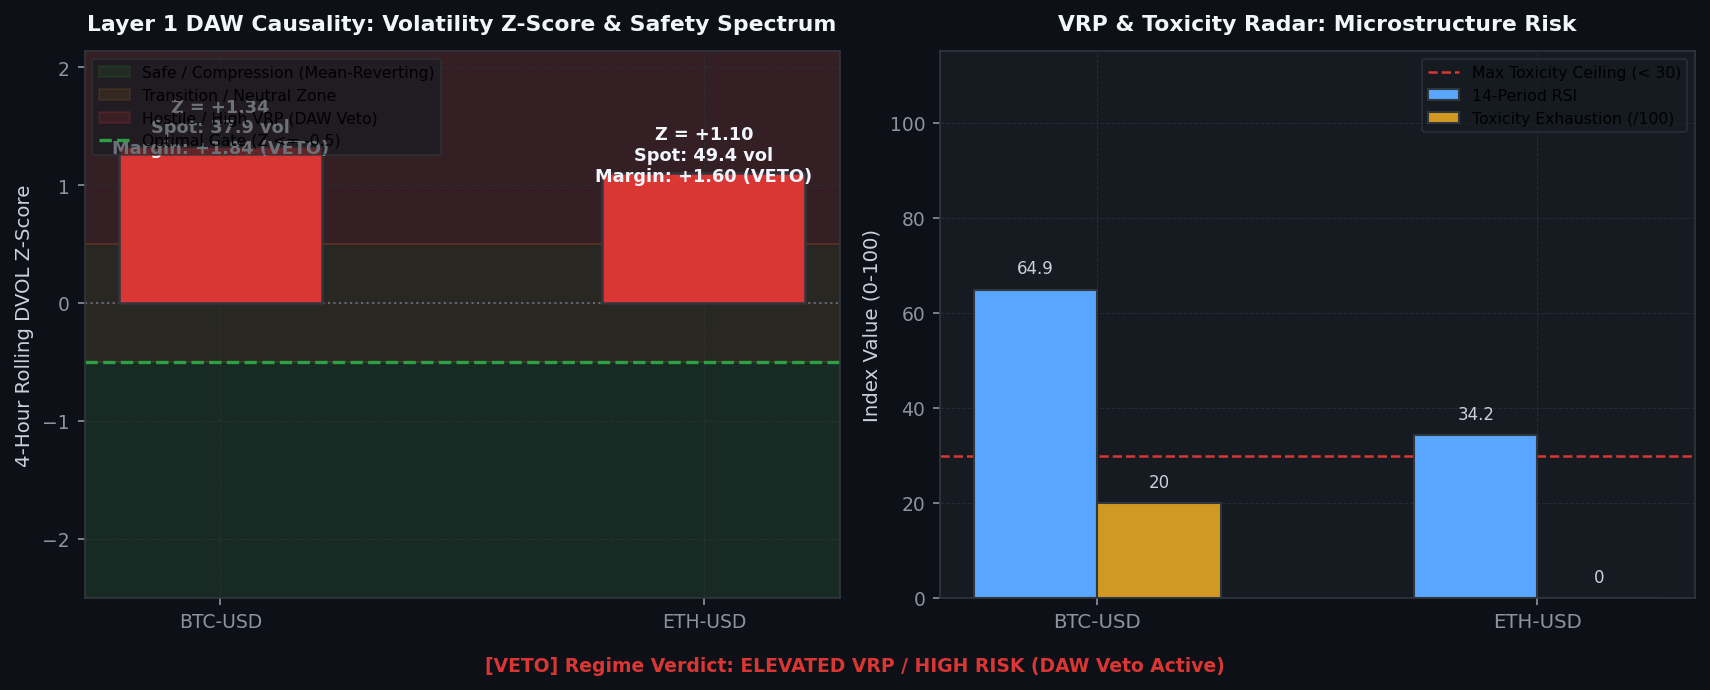
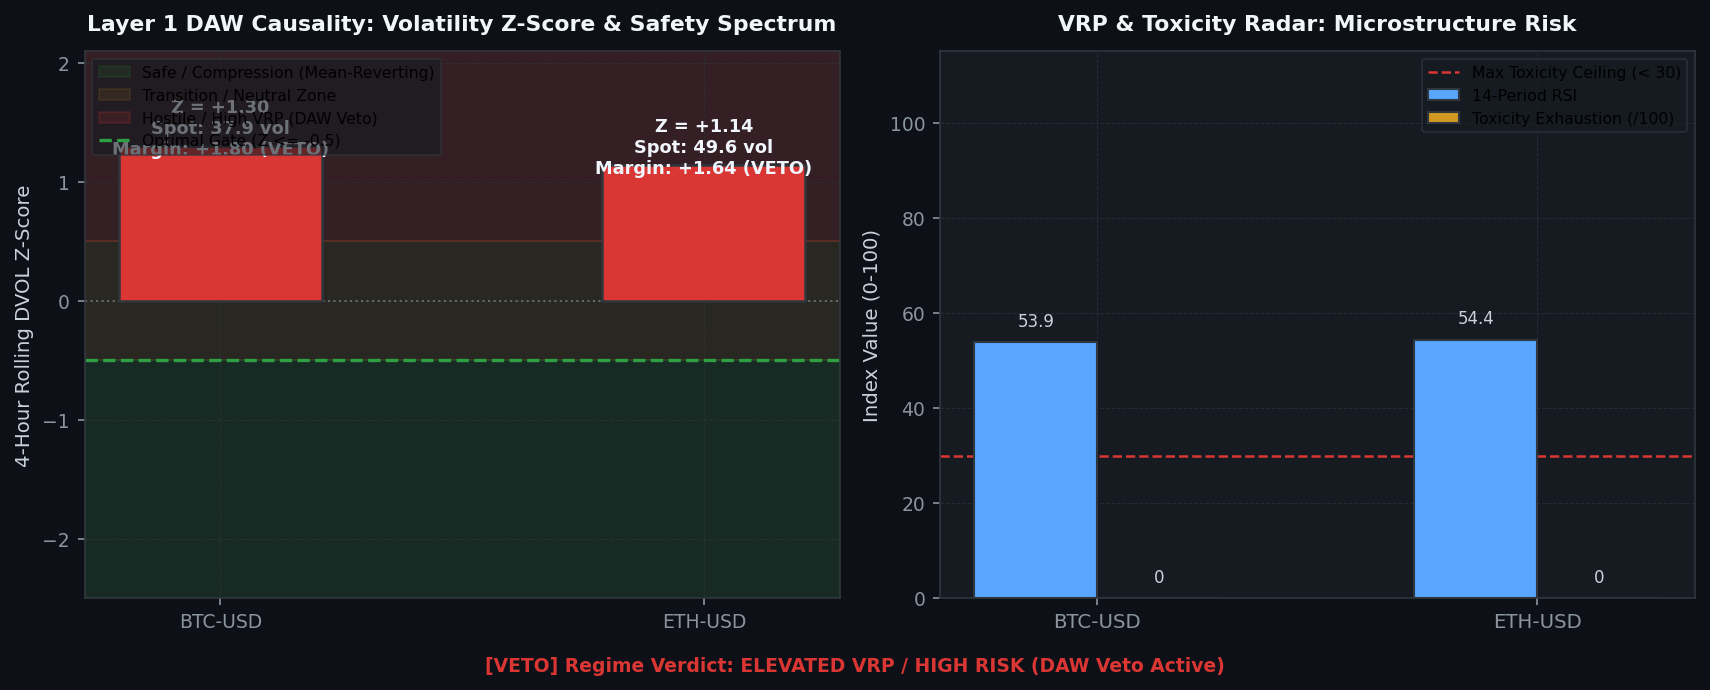
[coinbase] Hourly Status & Visual Intelligence Update: 2026-08-19 13:35:24

diff --git a/coinbase/data/hourly_status_report.md b/coinbase/data/hourly_status_report.md
@@ -3,7 +3,7 @@ layout: default
 ---
 
 # 🛡 Unified Trading System Hourly Status & Visual Intelligence
-> **Report Generated**: `2026-08-19 01:16:54 PM PDT (2026-08-19 20:16:54 UTC)`  
+> **Report Generated**: `2026-08-19 01:35:07 PM PDT (2026-08-19 20:35:07 UTC)`  
 > **System Health**: **🟡 DEGRADED / RESTRICTED** | **Win Rate**: `0.0%` | **Completed Trades**: `0`
 
 
@@ -15,13 +15,13 @@ Real-time Deribit implied volatility (DVOL) proxy tracking against mathematicall
 
 | Symbol | Proxy Oracle | Live Z-Score | Optimal Limit (YSP) | Safety Margin | Live VRP | Optimal VRP (YSP) | DAW Safety Verdict |
 | :--- | :--- | :--- | :--- | :--- | :--- | :--- | :--- |
-| `AVAX-USD` | DVOL_BTC | **+1.33** | **-0.50** | **+1.83** | **-35.66** | 5.0 | 🔴 DAW VETOED |
-| `ETH-USD` | DVOL_ETH | **+1.10** | **-0.50** | **+1.60** | **-24.11** | 5.0 | 🔴 DAW VETOED |
-| `ADA-USD` | DVOL_BTC | **+1.33** | **-0.50** | **+1.83** | **-35.66** | 5.0 | 🔴 DAW VETOED |
-| `DOGE-USD` | DVOL_BTC | **+1.33** | **-0.50** | **+1.83** | **-35.66** | 5.0 | 🔴 DAW VETOED |
-| `BTC-USD` | DVOL_BTC | **+1.33** | **-0.50** | **+1.83** | **-35.66** | 5.0 | 🔴 DAW VETOED |
-| `LINK-USD` | DVOL_BTC | **+1.33** | **-0.50** | **+1.83** | **-35.66** | 5.0 | 🔴 DAW VETOED |
-| `SOL-USD` | DVOL_BTC | **+1.33** | **-0.50** | **+1.83** | **-35.66** | 5.0 | 🔴 DAW VETOED |
+| `AVAX-USD` | DVOL_BTC | **+1.31** | **-0.50** | **+1.81** | **-35.76** | 5.0 | 🔴 DAW VETOED |
+| `ETH-USD` | DVOL_ETH | **+1.14** | **-0.50** | **+1.64** | **-24.12** | 5.0 | 🔴 DAW VETOED |
+| `ADA-USD` | DVOL_BTC | **+1.31** | **-0.50** | **+1.81** | **-35.76** | 5.0 | 🔴 DAW VETOED |
+| `DOGE-USD` | DVOL_BTC | **+1.31** | **-0.50** | **+1.81** | **-35.76** | 5.0 | 🔴 DAW VETOED |
+| `BTC-USD` | DVOL_BTC | **+1.31** | **-0.50** | **+1.81** | **-35.76** | 5.0 | 🔴 DAW VETOED |
+| `LINK-USD` | DVOL_BTC | **+1.31** | **-0.50** | **+1.81** | **-35.76** | 5.0 | 🔴 DAW VETOED |
+| `SOL-USD` | DVOL_BTC | **+1.31** | **-0.50** | **+1.81** | **-35.76** | 5.0 | 🔴 DAW VETOED |
 
 
 
@@ -37,12 +37,12 @@ We hereby certify that the mission-critical algorithmic data assets uploaded by 
 
 | Status | Data Asset | Freshness / State | Details / Timestamp |
 | :---: | :--- | :--- | :--- |
-| ✅ | **Go-List JSON** | Fresh (150.14h old) | 08-13 07:08 |
-| ✅ | **TimesFM Forecasts** | Fresh (5.25h old) | 08-19 08:02 |
-| ❌ | **Holding Times config** | STALE! (171.6h old) | Limit 168h |
-| ✅ | **BTC DVOL Cache** | Fresh (0.01h old) | 08-19 13:16 |
-| ✅ | **ETH DVOL Cache** | Fresh (0.01h old) | 08-19 13:16 |
-| ✅ | **Live Trading Telemetry** | Fresh (0.00h old) | 08-19 13:17 |
+| ✅ | **Go-List JSON** | Fresh (150.44h old) | 08-13 07:08 |
+| ✅ | **TimesFM Forecasts** | Fresh (5.55h old) | 08-19 08:02 |
+| ❌ | **Holding Times config** | STALE! (171.9h old) | Limit 168h |
+| ✅ | **BTC DVOL Cache** | Fresh (0.00h old) | 08-19 13:35 |
+| ✅ | **ETH DVOL Cache** | Fresh (0.00h old) | 08-19 13:35 |
+| ✅ | **Live Trading Telemetry** | Fresh (0.00h old) | 08-19 13:35 |
 
 <br>
 
@@ -55,7 +55,7 @@ Layer-by-layer tick evaluation waterfall and asset-specific performance tracking
 
 | Funnel Filter Layer | Total Rejections | % of Rejections |
 | :--- | :--- | :--- |
-| Tier 1: Macro Volatility Tensor Gate (Omega_macro) | `2,331` | **100.0%** |
+| Tier 1: Macro Volatility Tensor Gate (Omega_macro) | `2,702` | **100.0%** |
 | Tier 2: Unified Transport & Directional Engine | `0` | **0.0%** |
 | Tier 3: Continuous Hawkes-SFGK Pricer (HAS-Pricer) | `0` | **0.0%** |
 | System: Asset Cooldown Active | `0` | **0.0%** |
@@ -81,14 +81,14 @@ Live balance sheet and open maker liquidity positions from Coinbase CDP.
 ## 4. 🤖 Foundation Model MLOps & Pipeline Orchestration
 Weekly Algorithmic Mega Cap selection, Zero-shot multi-step forward return forecasts, and VSTEF parameter grid search status.
 
-- **TimesFM Forecast DB**: 🟢 Updated 5.2h ago (2026-08-19 08:02 AM PDT)
+- **TimesFM Forecast DB**: 🟢 Updated 5.6h ago (2026-08-19 08:02 AM PDT)
 - **Last Weekly VSTEF Optimization**: `2026-08-05 09:22:38 AM PDT`
-- **Next Scheduled VSTEF Run**: `2026-08-23 07:00:00 PM PDT (Monday 02:00 UTC)` (Countdown: **101.7h (4d 5h 43m)**)
+- **Next Scheduled VSTEF Run**: `2026-08-23 07:00:00 PM PDT (Monday 02:00 UTC)` (Countdown: **101.4h (4d 5h 24m)**)
 - **Promoted Parameter Gates**: $Z_{DVOL} \le -0.5$ | Holding Horizon $= 12\text{h}$
 
 ### Algorithmic Mega Cap Selection
 - **Last Run (Confirmation)**: `Never`
-- **Next Scheduled Run**: `2026-08-23 06:00:00 PM PDT (Monday 01:00 UTC)` (Countdown: **100.7h (4d 4h 42m)**)
+- **Next Scheduled Run**: `2026-08-23 06:00:00 PM PDT (Monday 01:00 UTC)` (Countdown: **100.4h (4d 4h 24m)**)
 - **Selected Mega Cap Universe**: `Could not fetch active universe from EC2`
 
 
@@ -102,19 +102,19 @@ Visualizing the impact of the VSTEF (Volatility-Synchronized Stop-Tightening Exe
 ## 5. 🖥 Multi-Node Infrastructure & Watchdog Matrix
 ```text
 ================================================================================
-   🛡  SFGK FUNNEL GUARDIAN WATCHDOG (HFT ONLY) |  08:16:55 PM
-   CPU:   2.0%  |  MEM:   5.4% (14.6GB / 15.4GB Free)
+   🛡  SFGK FUNNEL GUARDIAN WATCHDOG (HFT ONLY) |  08:35:05 PM
+   CPU:   4.1%  |  MEM:   5.8% (14.5GB / 15.4GB Free)
 ================================================================================
 SERVICE              | PID      | STATUS          | RESTARTS | INFO
 --------------------------------------------------------------------------------
 L3 Consumer          | 723391   | RUNNING         | -        | Continuous Websocket Feed
-Trader AVAX-USD      | 753152   | COOL-DOWN       | 99       | Next run in 4.8s
-Trader ETH-USD       | 753153   | COOL-DOWN       | 99       | Next run in 4.8s
-Trader ADA-USD       | 753154   | COOL-DOWN       | 99       | Next run in 4.8s
-Trader DOGE-USD      | 753155   | COOL-DOWN       | 99       | Next run in 4.8s
-Trader BTC-USD       | 753156   | COOL-DOWN       | 99       | Next run in 4.8s
-Trader LINK-USD      | 753157   | COOL-DOWN       | 99       | Next run in 4.8s
-Trader SOL-USD       | 753158   | COOL-DOWN       | 99       | Next run in 4.8s
+Trader AVAX-USD      | 768893   | COOL-DOWN       | 152      | Next run in 9.8s
+Trader ETH-USD       | 768894   | COOL-DOWN       | 152      | Next run in 9.8s
+Trader ADA-USD       | 768895   | COOL-DOWN       | 152      | Next run in 9.8s
+Trader DOGE-USD      | 768896   | COOL-DOWN       | 152      | Next run in 9.8s
+Trader BTC-USD       | 768897   | COOL-DOWN       | 152      | Next run in 9.8s
+Trader LINK-USD      | 768898   | COOL-DOWN       | 152      | Next run in 9.8s
+Trader SOL-USD       | 768899   | COOL-DOWN       | 152      | Next run in 9.8s
 ================================================================================
 ```
 

diff --git a/coinbase/data/visual_intelligence.md b/coinbase/data/visual_intelligence.md
@@ -4,7 +4,7 @@ title: Visual Intelligence Gallery
 ---
 
 # 📈 Visual Intelligence Gallery
-> **Generated:** `2026-08-19 13:17:12`
+> **Generated:** `2026-08-19 13:35:24`
 > **[Return to Main Status Report](./hourly_status_report.html)**
 
 This page visualizes the internal states, market profiles, and decision criteria of the active **3-Tier Fused Decision Engine** across all layers.
